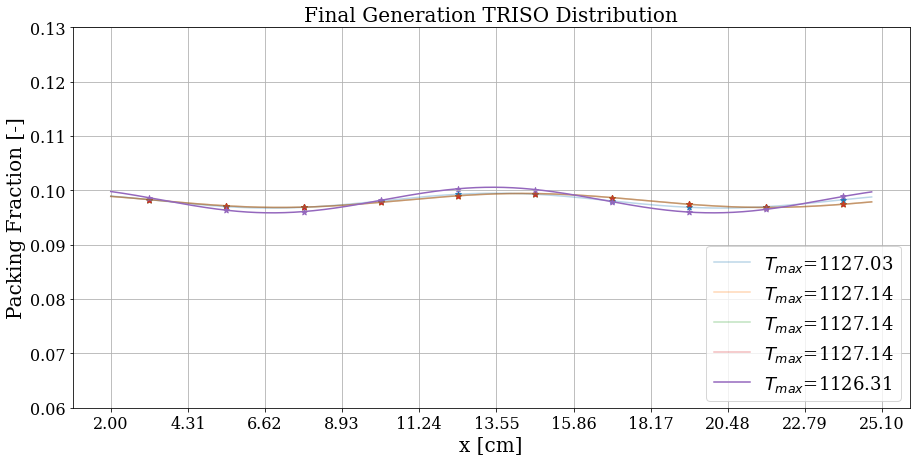
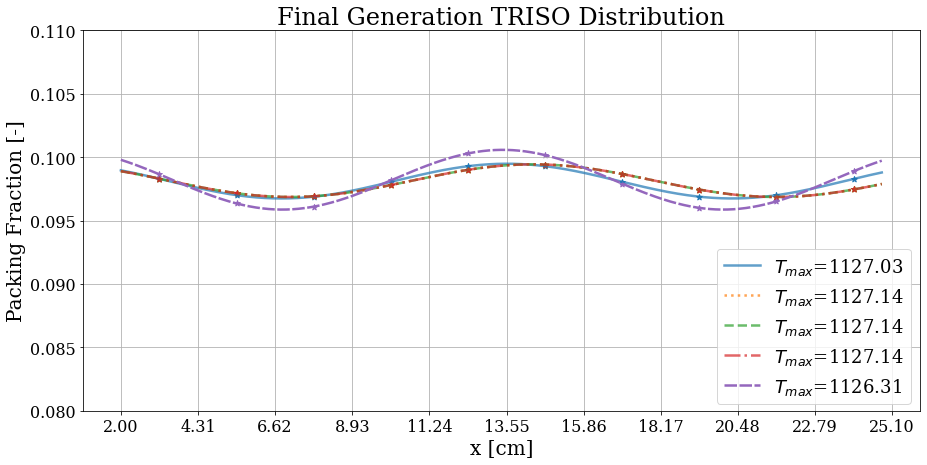
edits

diff --git a/docs/ahtr_rollo_slab.tex b/docs/ahtr_rollo_slab.tex
@@ -299,7 +299,7 @@ with the most-minimized $T_{max}$.
     \begin{subfigure}{0.9\textwidth}
         \includegraphics[width=\linewidth]{slab-obj-1-temp-most-minimized.png}
         \caption{\gls{AHTR} plank model with the most-minimized $T_{max}$
-        (corresponds to the purple bolded distribution in the above plot).}
+        (corresponds to the purple and densely dashed distribution in the above plot).}
         \label{fig:slab-obj-1-temp-most-minimized} 
     \end{subfigure}
     \caption{Simulation p-1b -- ROLLO single-objective optimization to minimize 
